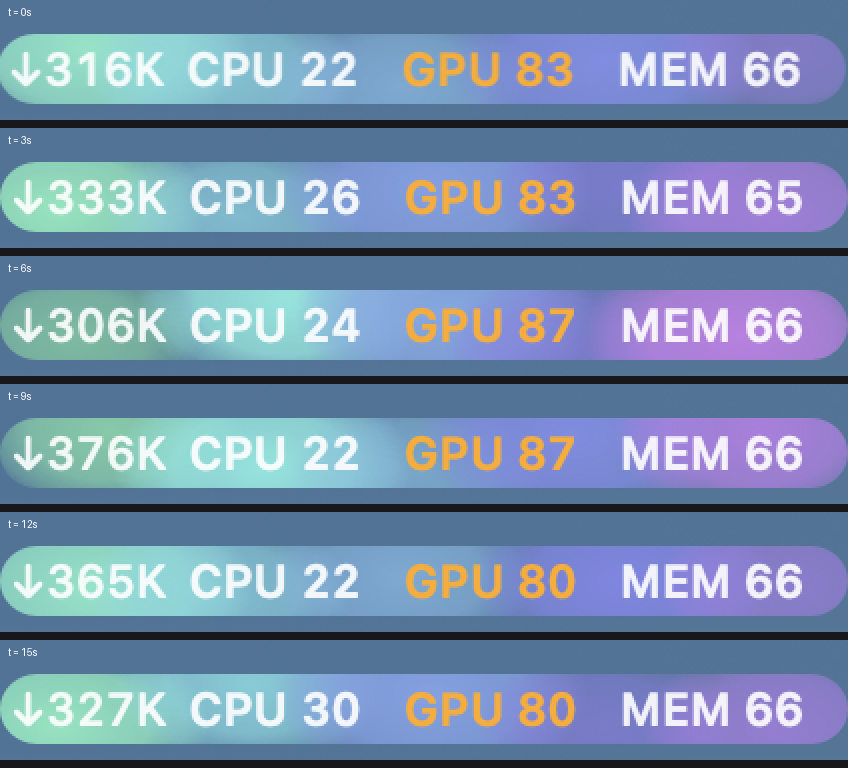
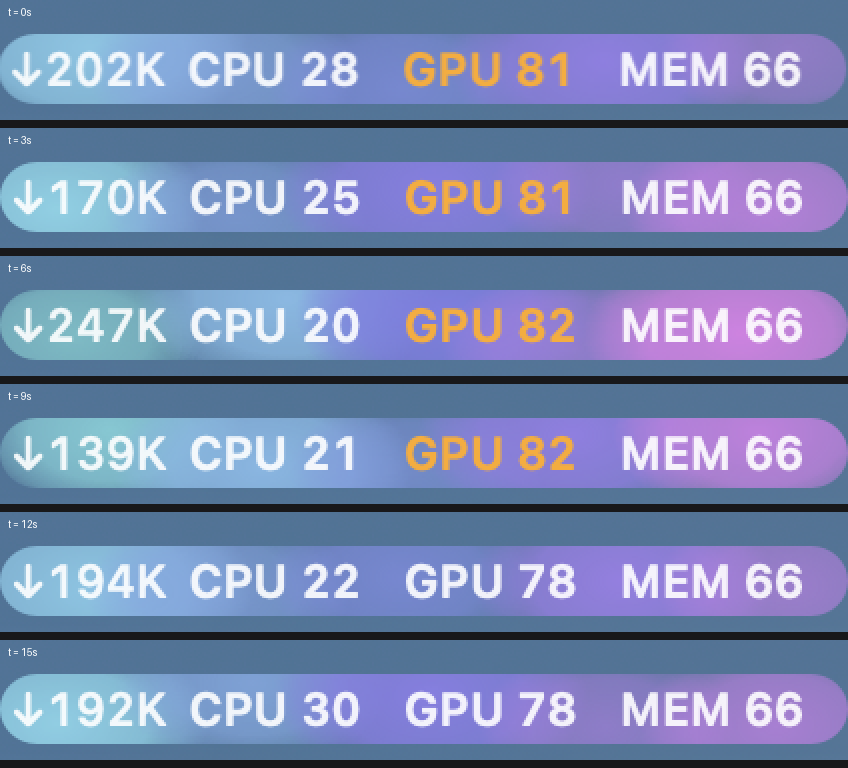
漫散射配色：减少绿色（187° 青 → 天蓝 → 284° 淡紫）
用户："我想要绿色少一点。"

唯一旋钮是色相坡的起点。做了三档递进并实机各拍一帧，对比图留在
Resources/配色-减绿三档-2026-09-30.png：

  0.42→0.75 (151→270°) 明显薄荷绿      跳变 5.1/24.5  白字对比度 2.65:1
  0.47→0.77 (169→277°) 还剩一层海绿    跳变 4.6/23.0  对比度 2.9:1
  0.52→0.79 (187→284°) 绿基本退掉 ←选定 跳变 4.2/21.1  对比度 3.42:1
  0.56→0.81 (202→292°) 纯天蓝→淡紫     跳变 4.0/21.6  对比度 3.5:1

实测条内平均合成色 H234° S37% V82%（原 H213° S39% V79%），
最暗/中位/最亮 V 69/84/95%，中位白字对比度 3.42:1。

一条规律（已写进 README）："少一点绿"和"白字更清楚"是同一个方向 ——
绿退掉后白字对比度从 2.65:1 升到 3.42:1（+29%），因为蓝紫的感知亮度低。
以后再遇到"文字看不清"，把配色往蓝端挪是最省事的杠杆。

结构指标不变（峰值时刻 17/24、摆幅 0.342、方向性 24/48 次变化）。

diff --git a/Sources/SysPulse/MenuBarImage.swift b/Sources/SysPulse/MenuBarImage.swift
@@ -273,7 +273,7 @@ enum MenuBarImage {
         // 那张图是**亮底**，而菜单栏是深色底 + 白字，照搬会把文字涂掉，
         // 所以按用户决定保留暗底、只取它的色相走向。另外用户手上只有**静态截图**，
         // 所以参考只覆盖配色与色相分布，**动感从未被参考到**。
-        let hueStart: CGFloat = 0.42, hueEnd: CGFloat = 0.75
+        let hueStart: CGFloat = 0.52, hueEnd: CGFloat = 0.79
 
         // ⚠ **脉动 = 每个光点自己的周期 + 各自的固定相位，然后减均值、再限幅。**
         //

diff --git a/README.md b/README.md
@@ -828,7 +828,8 @@ cd ~/Documents/DeepSeek/SysPulse
     | 旧版（真机截图） | H318° S34% V72% | — |
     | 修复后（离屏同口径，`brightness 0.85`） | H302° S38% V70% | 55 / 77 / 85%（旧版 59 / 75 / 85%） |
     | `brightness 0.90`、旧配色（淡紫→淡粉） | H302° S37% V74% | 59 / 81 / 90% |
-    | **当前（薄荷绿→天蓝→淡紫，见下一条）** | H213° S39% V79% | 54 / 83 / 90% |
+    | 薄荷绿→天蓝→淡紫（绿偏多，用户嫌绿） | H213° S39% V79% | 54 / 83 / 90% |
+    | **当前（青 → 天蓝 → 淡紫，见下一条）** | H234° S37% V82% | 69 / 84 / 95% |
   - ⚠ **提亮有个硬上限：白字的对比度。** 动效铺在文字**底下**，底色一亮，
     白字（`.labelColor`）就糊。按 WCAG 的相对亮度算过一遍：
     | 光斑 `brightness` | 中位合成 V | 白字对比度 |
@@ -843,8 +844,12 @@ cd ~/Documents/DeepSeek/SysPulse
     所以提亮停在 `0.90`（守住 3:1）。**想再亮就得把文字改成深色**，
     那是另一个改动（`Segment.color` 与 `StatusItemController.tint` 都要跟着走），没做。
     实机复测：条内从**左端 H265°（淡紫）**到**右端 H353°（淡粉）**，整条 206pt 铺满无断口。
-  - ⚠ **配色（当前：薄荷绿 → 天蓝 → 淡紫）**：色相坡 `0.42 → 0.75`
-    （= **151° 薄荷绿 → 天蓝 → 270° 淡紫**），配合每个光点 `±0.03`（约 ±11°）的本色呼吸。
+  - ⚠ **配色（当前：青 → 天蓝 → 淡紫）**：色相坡 `0.52 → 0.79`
+    （= **187° 青 → 天蓝 → 284° 淡紫**），配合每个光点 `±0.03`（约 ±11°）的本色呼吸。
+    ⚠ **色相坡的起点决定"绿味"有多重**，这是调这套配色时唯一要动的旋钮：
+    `0.42` 起（151°）是明显的薄荷绿，`0.47` 起（169°）还剩一层海绿，
+    `0.52` 起（187°）绿基本退掉、只剩清透的青。用户 2026-09-30 的反馈依次是
+    "更喜欢绿色"→"我想要绿色少一点"，最后停在 `0.52`。
     用户 2026-09-30 的反馈是"更喜欢清新一点的颜色，比如绿色、粉色、蓝色"，
     所以从最初的"淡紫 → 淡粉"换成了冷色系。选这套是**量出来的**，不是猜的：
 
@@ -853,7 +858,10 @@ cd ~/Documents/DeepSeek/SysPulse
     | 淡紫 → 淡粉（旧） | 4.5° / 23.5° | H297° S30% V75% | 2.95 : 1 |
     | 薄荷绿 → 湖蓝（150→200°） | **2.5° / 14.7°** | H180° S32% V80% | **1.79 : 1** ⚠ |
     | 嫩绿 → 青（120→175°） | 3.2° / 19.8° | H141° S28% V80% | **1.85 : 1** ⚠ |
-    | **薄荷绿 → 天蓝 → 淡紫（151→270°，当前）** | **5.1° / 24.5°** | H213° S39% V79% | **2.65 : 1** |
+    | 薄荷绿 → 天蓝 → 淡紫（151→270°） | **5.1° / 24.5°** | H213° S39% V79% | **2.65 : 1** |
+    | 海绿 → 天蓝 → 淡紫（169→277°） | 4.6° / 23.0° | H223° S39% V81% | 2.9 : 1 |
+    | **青 → 天蓝 → 淡紫（187→284°，当前）** | **4.2° / 21.1°** | H234° S37% V82% | **3.42 : 1** |
+    | 天蓝 → 淡紫（202→292°） | 4.0° / 21.6° | H246° S37% V82% | 3.5 : 1 |
     | 天蓝 → 淡粉（216→335°） | 6.0° / 34.0° | H261° S35% V81% | 3.21 : 1 |
     | 薄荷绿 → 天蓝 → 淡粉（150→330°） | **7.7° / 39.0°** ⚠ | H239° S25% V75% | 2.4 : 1 |
 
@@ -866,7 +874,9 @@ cd ~/Documents/DeepSeek/SysPulse
        会掉到 `1.8 : 1` 左右。**要绿色就得接受文字变软，或者把亮度压下来**
        （实测把薄荷绿从 `brightness 0.90` 压到 `0.74` 能把对比度拉回 `2.76 : 1`，
        但饱和度也跟着掉、会发灰）。
-       选中的这套之所以文字还行，是因为它的**中段和右段是蓝/紫**（蓝色感知亮度低）。
+       当前的这套之所以文字还行，是因为**中段和右段是蓝/紫**（蓝色感知亮度低）——
+       实测把起点从 151° 抬到 187°（绿退掉）之后，白字对比度直接从 `2.65 : 1` 升到 `3.42 : 1`。
+       **"少一点绿"和"文字更清楚"是同一个方向**，这两个诉求不冲突。
     3. 附带好处：告警色是 `.systemOrange` / `.systemRed`，**蓝绿底正好把橙红衬出来**；
        绿底则会和橙红"打架"。
     ⚠ 参考图是**静态截图**，所以它只覆盖了配色与色相分布，**动感从未被参考到**。

diff --git a/DEVLOG-漫散射修复-2026-09-30.md b/DEVLOG-漫散射修复-2026-09-30.md
@@ -254,3 +254,25 @@ gradient.draw(fromCenter: .zero, radius: 0, toCenter: .zero, radius: 1, options:
 好在发现得早（查 `git diff` 时看到两处而不是一处）、且没提交。
 **教训：批量替换必须锚定到目标行附近的上下文，不能用无界模式。**
 修好后用 `--effect glow` 复测了流光指标（`jumpMean 6.6 / jumpPeak 23.0`）确认没误伤。
+
+---
+
+## 7. 追加：减少绿色（同日稍后）
+
+用户："我想要绿色少一点。"
+
+唯一要动的旋钮是**色相坡的起点**（起点决定"绿味"有多重）。做了三档递进，
+各档离屏量 + 实机装机拍图，对比图留在 `Resources/配色-减绿三档-2026-09-30.png`：
+
+| 色相坡 | 视觉 | 相邻跳变 均值/峰值 | 合成平均色 | 白字对比度 |
+| --- | --- | --- | --- | --- |
+| `0.42→0.75`（151→270°） | 明显薄荷绿 | 5.1° / 24.5° | H213° S39% V79% | 2.65 : 1 |
+| `0.47→0.77`（169→277°） | 还剩一层海绿 | 4.6° / 23.0° | H223° S39% V81% | 2.9 : 1 |
+| **`0.52→0.79`（187→284°，选定）** | **绿基本退掉，只剩清透的青** | **4.2° / 21.1°** | H234° S37% V82% | **3.42 : 1** |
+| `0.56→0.81`（202→292°） | 纯天蓝→淡紫 | 4.0° / 21.6° | H246° S37% V82% | 3.5 : 1 |
+
+选 `0.52`（187° 青）这一档：绿退掉了，"清新"还在，而且跳变指标同时变好。
+
+📌 **一条有用的规律（已写进 README）："少一点绿"和"白字更清楚"是同一个方向。**
+绿退掉之后白字对比度从 `2.65 : 1` 直接升到 `3.42 : 1`（+29%），
+因为蓝色/紫色的感知亮度低。以后再遇到"文字看不清"，先把配色往蓝端挪是最省事的杠杆。
